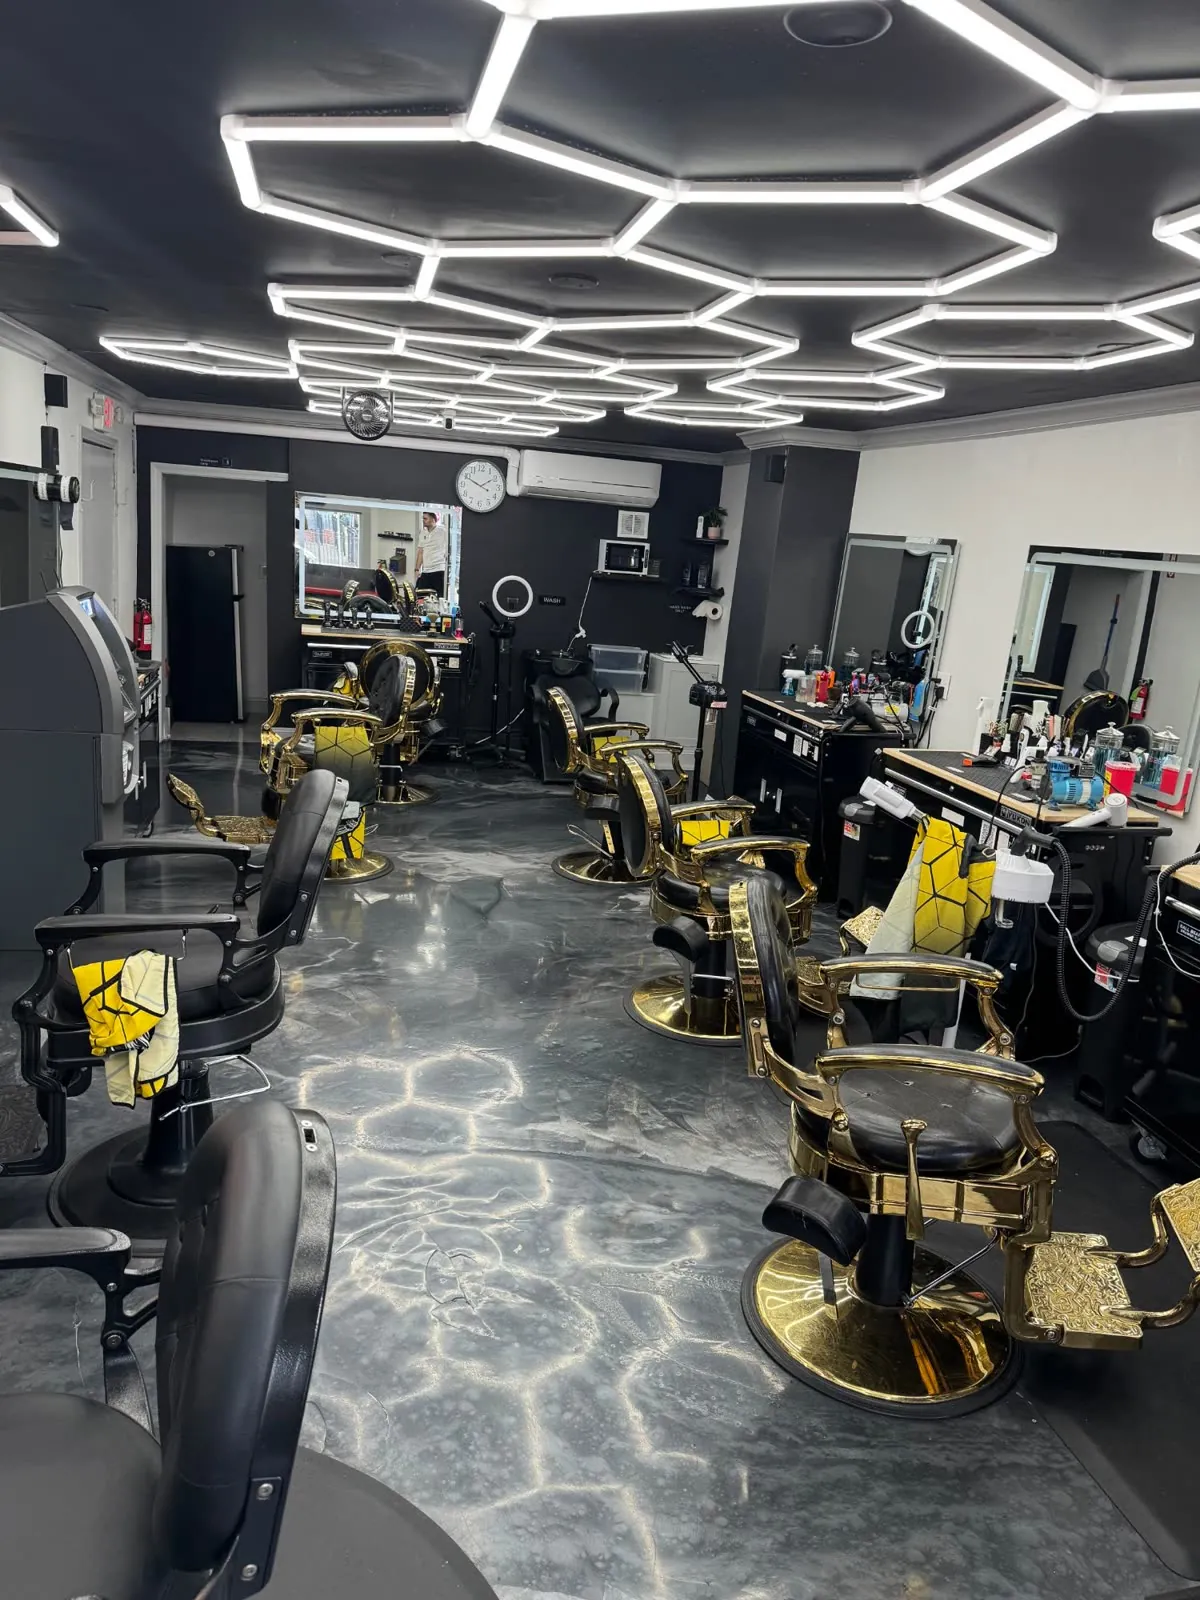
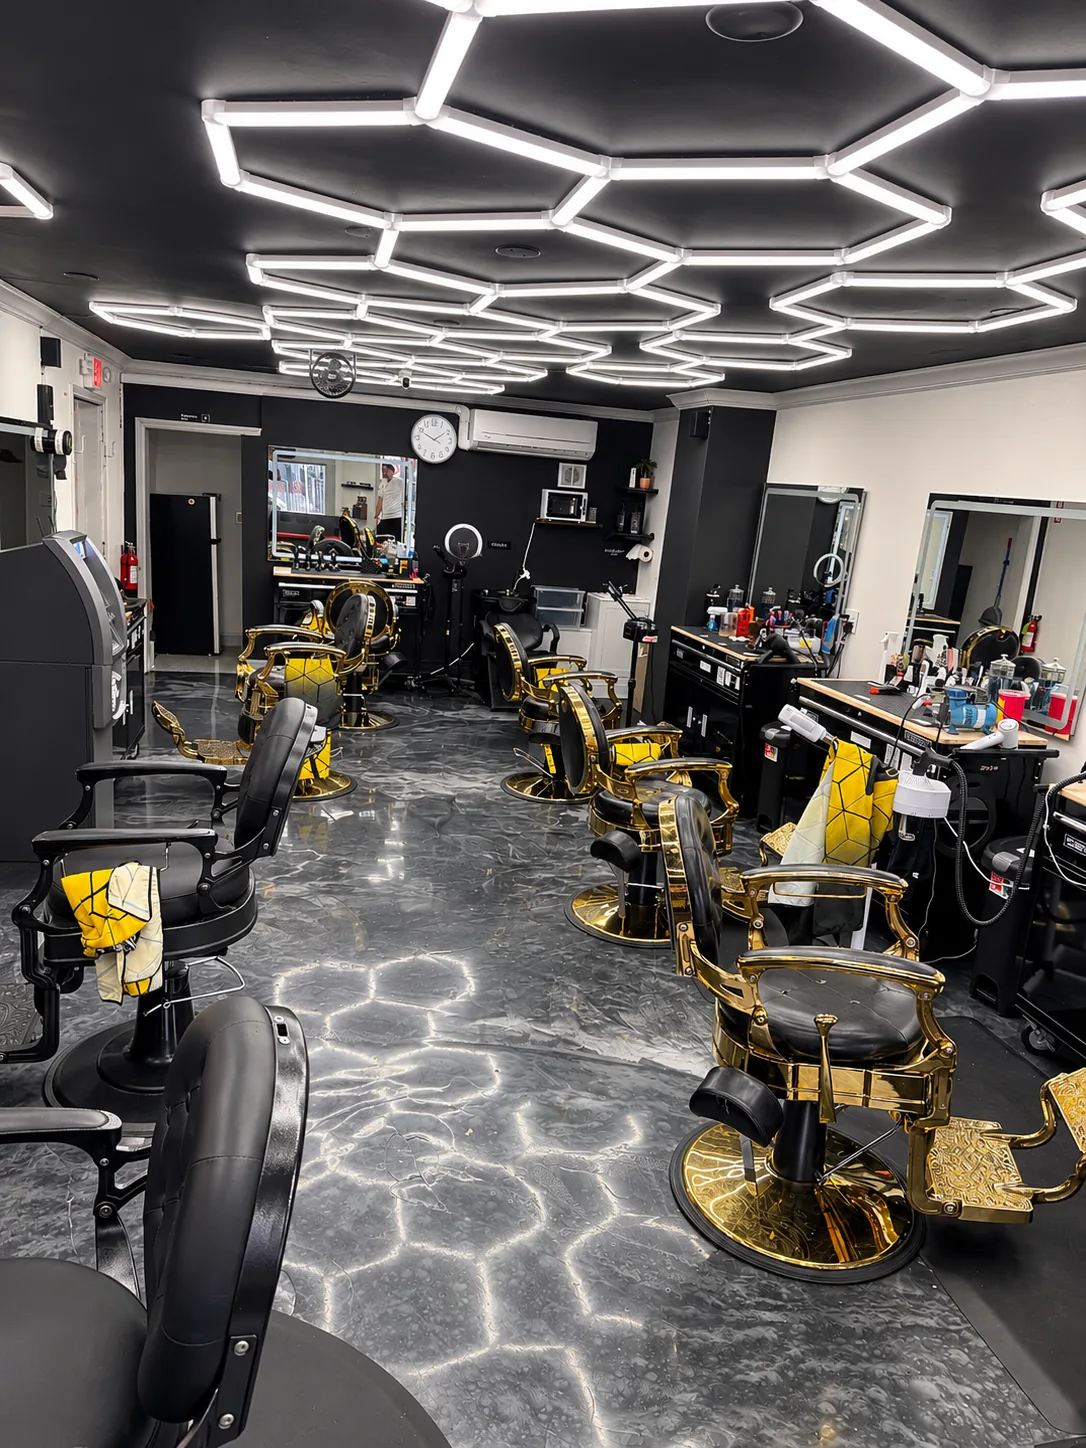
Swap the Booksy and Hours chairs; use the new interior photo
- 'Book on Booksy' and 'Hours & directions' trade places in the shop scene; the Booksy station zoom follows its chair
- Replace the interior photo with the owner's new, sharper version (WebP sizes and inside.jpg)

Claude-Session: https://claude.ai/code/session_01MXdPPVJbys9AM1yKx5yQ2j

diff --git a/index.html b/index.html
@@ -268,7 +268,7 @@
   <!-- Inside the shop: the homepage. Each chair opens one part of the site (shop.js). Hidden without JavaScript. -->
   <div class="shop" id="shop" role="region" data-i18n-attr="aria-label:shop.label" aria-label="Inside The Tribe Studio">
     <div class="shop-scene" id="shop-scene">
-      <button type="button" class="chair" data-chair="booksy" data-side="right" style="--x: 73%; --y: 66%;">
+      <button type="button" class="chair" data-chair="booksy" data-side="left" style="--x: 30%; --y: 45%;">
         <span class="chair-dot" aria-hidden="true"></span>
         <span class="chair-label" data-i18n="chair.booksy">Book on Booksy</span>
       </button>
@@ -280,7 +280,7 @@
         <span class="chair-dot" aria-hidden="true"></span>
         <span class="chair-label" data-i18n="chair.barbers">Our barbers</span>
       </button>
-      <button type="button" class="chair" data-chair="visit" data-section="visit" data-side="left" style="--x: 30%; --y: 45%;">
+      <button type="button" class="chair" data-chair="visit" data-section="visit" data-side="right" style="--x: 73%; --y: 66%;">
         <span class="chair-dot" aria-hidden="true"></span>
         <span class="chair-label" data-i18n="chair.visit">Hours &amp; directions</span>
       </button>
@@ -362,7 +362,7 @@
   </div>
 
   <div class="station" id="station-booksy" data-chair="booksy" role="dialog" aria-modal="true" aria-labelledby="st-booksy-title" hidden>
-    <div class="station-photo" style="--photo: url('img/tribe-studio-barbershop-interior-east-boston.webp'); --pos: 78% 70%; --zoom: 260%;"></div>
+    <div class="station-photo" style="--photo: url('img/tribe-studio-barbershop-interior-east-boston.webp'); --pos: 30% 45%; --zoom: 260%;"></div>
     <button type="button" class="station-back" data-i18n="shop.back">Back to the shop</button>
     <div class="station-air station-air-top">
       <p class="air-kicker"><span aria-hidden="true">★</span> 5.0 <span data-i18n="rating.short">on Booksy · 456 reviews</span></p>
@@ -450,7 +450,7 @@
           </div>
         </div>
         <figure class="photo-slot hero-photo has-photo">
-          <img src="img/tribe-studio-barbershop-interior-east-boston-800w.webp" srcset="img/tribe-studio-barbershop-interior-east-boston-480w.webp 480w, img/tribe-studio-barbershop-interior-east-boston-800w.webp 800w, img/tribe-studio-barbershop-interior-east-boston.webp 1200w" sizes="(max-width: 1100px) 86vw, 300px" width="1200" height="1600" loading="eager" fetchpriority="high" decoding="async" alt="Inside The Tribe Studio barbershop in East Boston: black and gold barber chairs under a hexagon light ceiling" data-i18n-attr="alt:alt.interior">
+          <img src="img/tribe-studio-barbershop-interior-east-boston-800w.webp" srcset="img/tribe-studio-barbershop-interior-east-boston-480w.webp 480w, img/tribe-studio-barbershop-interior-east-boston-800w.webp 800w, img/tribe-studio-barbershop-interior-east-boston.webp 1086w" sizes="(max-width: 1100px) 86vw, 300px" width="1200" height="1600" loading="eager" fetchpriority="high" decoding="async" alt="Inside The Tribe Studio barbershop in East Boston: black and gold barber chairs under a hexagon light ceiling" data-i18n-attr="alt:alt.interior">
         </figure>
       </div>
     </section>
